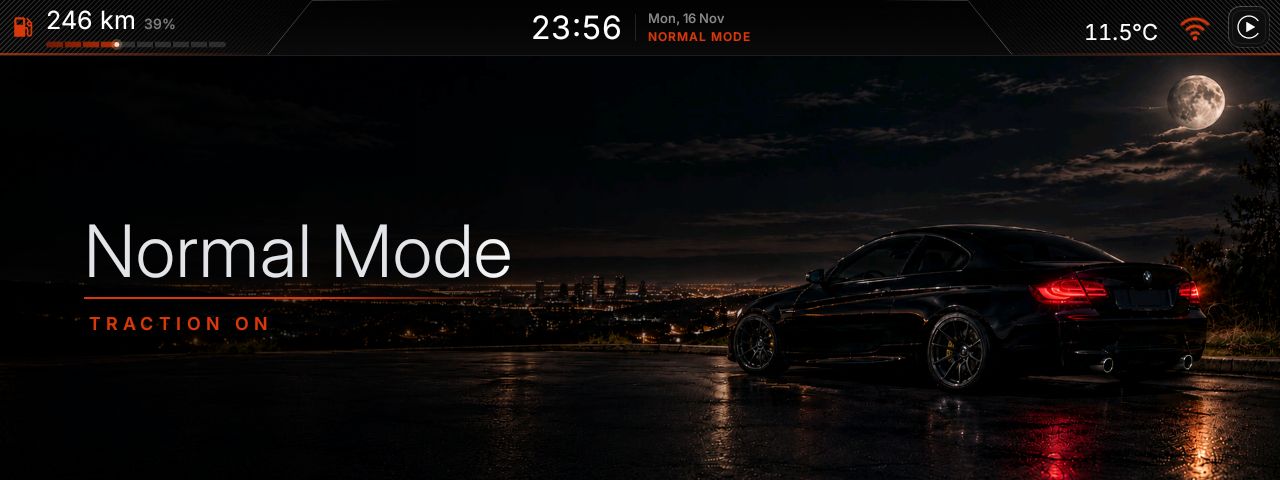
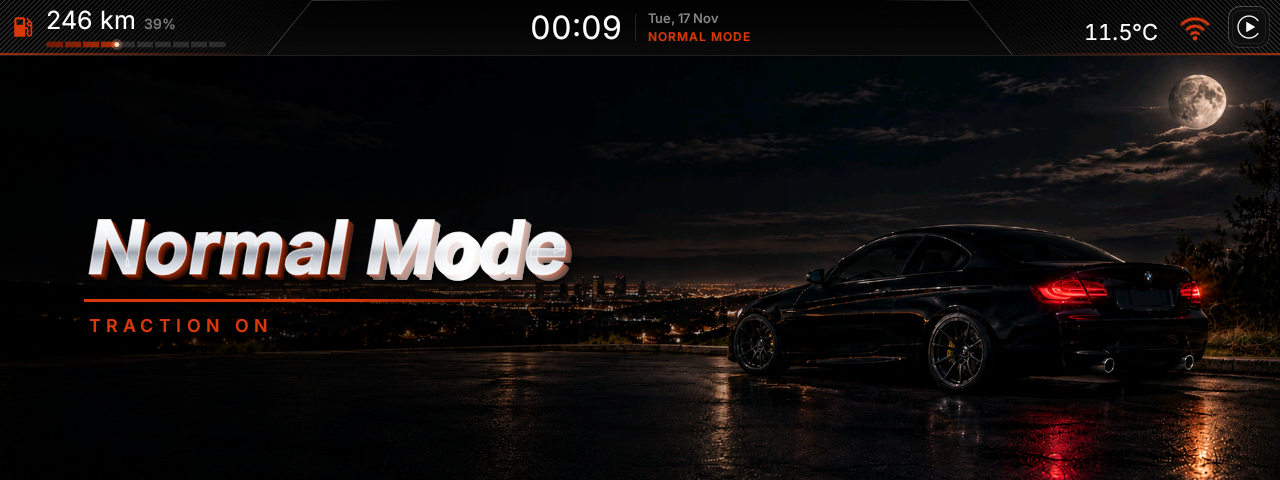
Mode scenes: 3D title (bold italic, metallic face, light rim, orange extrusion, shadow under the sweep layer)

diff --git a/app/src/main/java/ro/e92/launcher/ui/screens/ModeScreen.kt b/app/src/main/java/ro/e92/launcher/ui/screens/ModeScreen.kt
@@ -120,12 +120,24 @@ class ModeBannerView(
         xfermode = PorterDuffXfermode(PorterDuff.Mode.SRC_ATOP)
     }
 
-    /** Același font subțire ca „Welcome back", puțin stins ca reflexul alb să se vadă pe el. */
-    private val titlePaint = Paint(Paint.ANTI_ALIAS_FLAG).apply {
-        color = Color.rgb(226, 228, 232)
-        typeface = context.resources.getFont(R.font.inter_display_light)
-        letterSpacing = 0.01f
+    /**
+     * Titlul în relief: litere groase, aplecate, cu față metalică, ramă deschisă și o
+     * grosime portocalie trasă în jos-dreapta. Cele trei vopsele au aceeași formă de literă.
+     */
+    private fun titleStyle() = Paint(Paint.ANTI_ALIAS_FLAG).apply {
+        typeface = context.resources.getFont(R.font.inter_semibold)
+        isFakeBoldText = true
+        textSkewX = TITLE_SKEW
+        letterSpacing = 0.015f
     }
+    private val titlePaint = titleStyle()
+    private val depthPaint = titleStyle()
+    private val rimPaint = titleStyle().apply {
+        style = Paint.Style.STROKE
+        strokeJoin = Paint.Join.ROUND
+        color = Color.WHITE
+    }
+    private var faceFor = 0f
 
     /** Rândul mic, ca „BMW iDRIVE" din salut: semibold, litere rărite, portocaliu. */
     private val subPaint = Paint(Paint.ANTI_ALIAS_FLAG).apply {
@@ -191,6 +203,9 @@ class ModeBannerView(
         // ---- așezare: titlu, linie, rând mic; totul aliniat la stânga ----
         val big = h * TITLE_SIZE
         titlePaint.textSize = big
+        depthPaint.textSize = big
+        rimPaint.textSize = big
+        rimPaint.strokeWidth = h * RIM_WIDTH
         subPaint.textSize = h * SUB_SIZE
         val x = w * TEXT_LEFT
         val titleW = titlePaint.measureText(title)
@@ -204,14 +219,51 @@ class ModeBannerView(
         val lineIn = ease(now, LINE_AT_MS, LINE_MS)
         val subIn = ease(now, SUB_AT_MS, SUB_MS)
 
-        textRect.set(x, top - big * 0.2f, x + titleW, if (subText != null) subBase + h * 0.02f else lineY)
+        val depth = h * DEPTH
+        textRect.set(x, top - big * 0.2f, x + titleW + depth * 2f, if (subText != null) subBase + h * 0.02f else lineY)
+        // Umbra se desenează sub strat, ca reflexul alb să prindă doar literele, nu și umbra.
+        if (titleIn > 0f) {
+            val sa = (255 * titleIn * all).toInt()
+            depthPaint.color = Color.BLACK
+            depthPaint.alpha = sa
+            depthPaint.setShadowLayer(h * 0.03f, 0f, h * 0.012f, Color.argb(sa, 0, 0, 0))
+            canvas.drawText(title, x + depth, titleBase + (1f - titleIn) * h * 0.03f + depth, depthPaint)
+            depthPaint.clearShadowLayer()
+        }
         val layer = canvas.saveLayer(
             textRect.left - 8f, textRect.top - 8f, textRect.right + 8f, textRect.bottom + 8f, null
         )
         if (titleIn > 0f) {
-            titlePaint.alpha = (255 * titleIn * all).toInt()
             // Urcă puțin cât apare, ca salutul de la pornire.
-            canvas.drawText(title, x, titleBase + (1f - titleIn) * h * 0.03f, titlePaint)
+            val ty = titleBase + (1f - titleIn) * h * 0.03f
+            val alpha = (255 * titleIn * all).toInt()
+            // Grosimea: copii suprapuse, din ce în ce mai închise spre fund; ultima aruncă umbra.
+            for (i in DEPTH_STEPS downTo 1) {
+                val f = i / DEPTH_STEPS.toFloat()
+                depthPaint.color = Color.rgb(
+                    (Color.red(accent) * (0.78f - 0.6f * f)).toInt(),
+                    (Color.green(accent) * (0.78f - 0.6f * f)).toInt(),
+                    (Color.blue(accent) * (0.78f - 0.6f * f)).toInt()
+                )
+                depthPaint.alpha = alpha
+                canvas.drawText(title, x + depth * f, ty + depth * f, depthPaint)
+            }
+            // Fața metalică: alb sus, o dungă de umbră sub mijloc, lumină din nou la bază.
+            if (faceFor != ty) {
+                faceFor = ty
+                titlePaint.shader = LinearGradient(
+                    0f, ty - big * 0.74f, 0f, ty,
+                    intArrayOf(
+                        Color.WHITE, Color.rgb(232, 235, 240), Color.rgb(158, 165, 176),
+                        Color.rgb(205, 210, 218), Color.rgb(240, 242, 246)
+                    ),
+                    floatArrayOf(0f, 0.42f, 0.6f, 0.78f, 1f), Shader.TileMode.CLAMP
+                )
+            }
+            titlePaint.alpha = alpha
+            canvas.drawText(title, x, ty, titlePaint)
+            rimPaint.alpha = (alpha * 0.55f).toInt()
+            canvas.drawText(title, x, ty, rimPaint)
         }
         if (subText != null && subIn > 0f) {
             subPaint.alpha = (255 * subIn * all).toInt()
@@ -278,8 +330,12 @@ class ModeBannerView(
         private const val TEXT_LEFT = 0.066f
         private const val TITLE_SIZE = 0.17f
         private const val SUB_SIZE = 0.042f
-        private const val LINE_GAP = 0.05f
+        private const val LINE_GAP = 0.062f
+        private const val TITLE_SKEW = -0.17f
+        private const val DEPTH = 0.014f
+        private const val DEPTH_STEPS = 7
+        private const val RIM_WIDTH = 0.0028f
         private const val SUB_GAP = 0.045f
-        private const val LINE_PX = 2f
+        private const val LINE_PX = 3f
     }
 }
